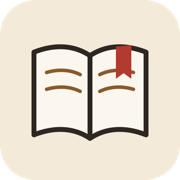
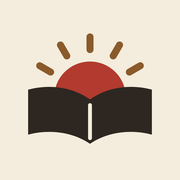
새 로고·앱 아이콘: 펼친 책에서 떠오르는 아침 해 (홈 화면·아이폰·브라우저 탭·maskable, 작은 크기 전용 그림)

diff --git a/index.html b/index.html
@@ -5,7 +5,8 @@
 <meta name="viewport" content="width=device-width, initial-scale=1, viewport-fit=cover">
 <title>아침 서재</title>
 <link rel="manifest" href="manifest.webmanifest">
-<link rel="icon" href="icon.svg" type="image/svg+xml">
+<link rel="icon" href="icon-small.svg" type="image/svg+xml">
+<link rel="icon" href="favicon-32.png" sizes="32x32" type="image/png">
 <link rel="apple-touch-icon" href="apple-touch-icon.png">
 <meta name="apple-mobile-web-app-capable" content="yes">
 <meta name="mobile-web-app-capable" content="yes">
@@ -2157,7 +2158,7 @@ async function pushSave(){
 // ───────── 새 버전 자동 새로 고침 ─────────
 // 올릴 때마다 version.json 의 번호가 바뀝니다. 앱이 열릴 때·다시 화면에 올라올 때·5분마다 확인해서,
 // 쓰는 중인 글이 없고 저장이 끝났을 때 새 버전으로 새로 고칩니다.
-const APP_BUILD="e9c0f39b32";
+const APP_BUILD="179f63dc8c";
 let NEW_BUILD=null, UPDATE_NOTICED=false;
 async function checkUpdate(){
   if(APP_BUILD.startsWith("__")) return;                 // 원본 파일로 열었을 때(고치는 중)는 건너뜁니다
